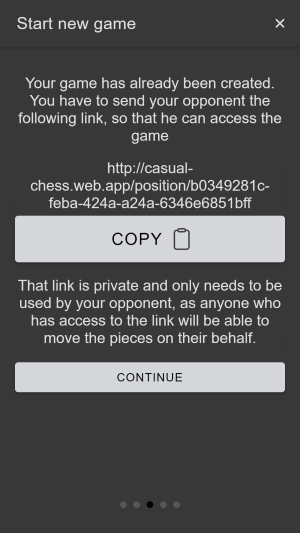
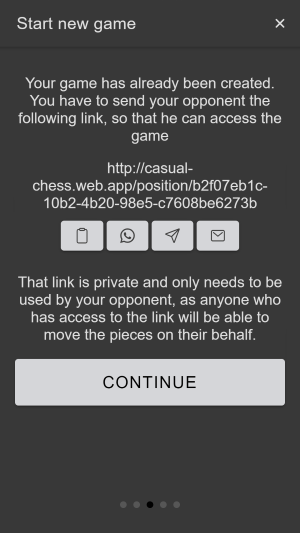
Update readme & screenshots

Changed region(s): [[0.03, 0.3302, 0.96, 0.7805]]

diff --git a/README.md b/README.md
@@ -25,7 +25,7 @@ Next you assign a name to the game, to be able to locate it in the list of the h
 
 <img style="margin-left:10px;" src="screenshots/02_newgame_2.png">
 
-When creating the game 3 unique links are generated. One for the player with the white pieces, one for the player with the black pieces and one for spectators. The following screens allow you to copy these links to the clipboard, in order to share them.
+When creating the game 3 unique links are generated. One for the player with the white pieces, one for the player with the black pieces and one for spectators. The following screens allow you to copy these links to the clipboard or share them via whatsapp, telegram or email.
 Each player has to use their link and keep it a secret ... anyone with the link could move your pieces instead!
 
 <img style="margin-left:10px;" src="screenshots/02_newgame_3.png">
